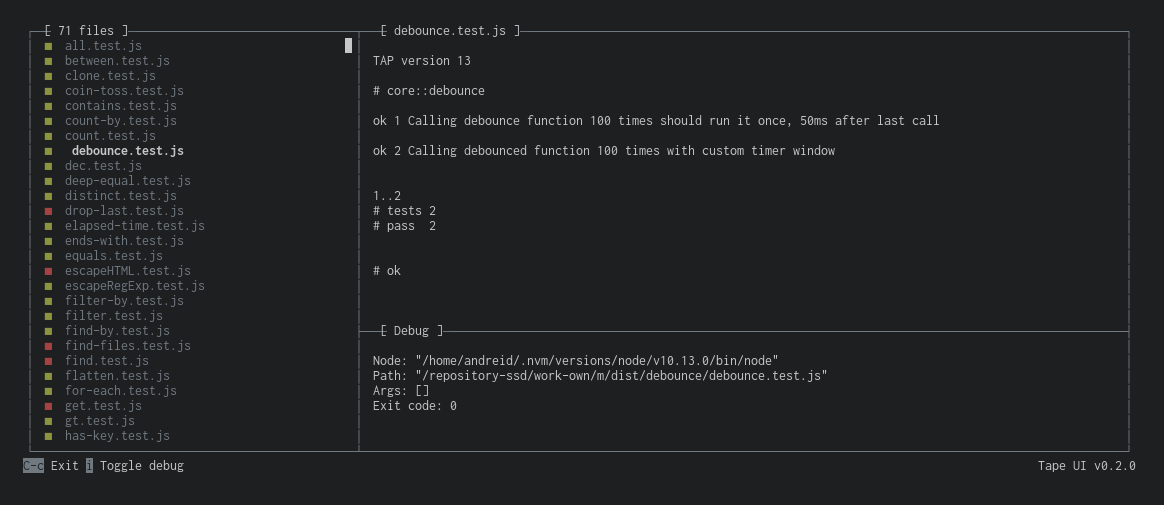
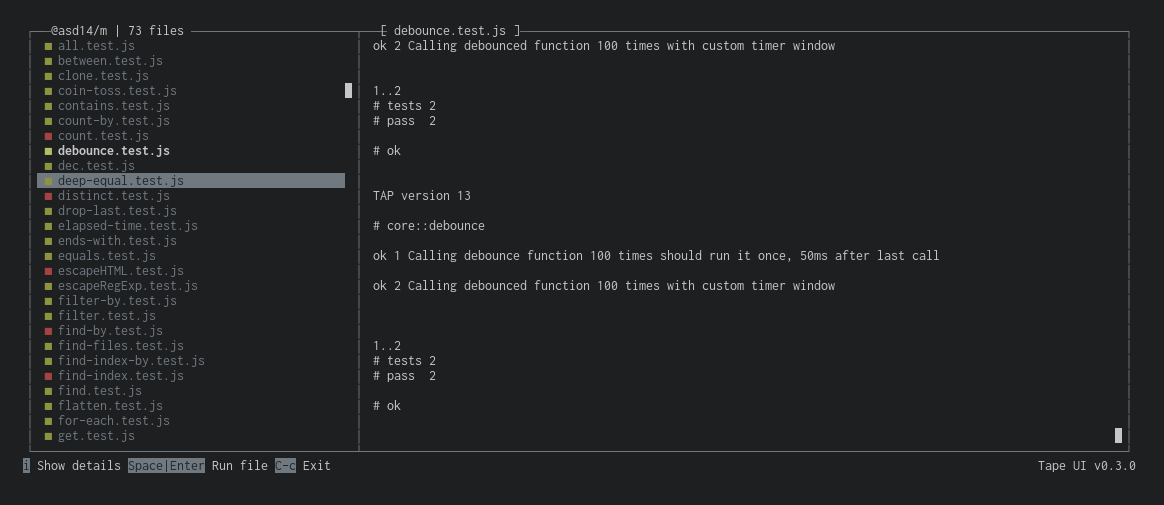
Docs for 0.4.0

diff --git a/README.md b/README.md
@@ -2,9 +2,12 @@
 
 # Tape UI [![npm package version](https://badge.fury.io/js/%40asd14%2Ftape-ui.svg)](https://badge.fury.io/js/%40asd14%2Ftape-ui)
 
-> Terminal UI for [Tape](https://github.com/substack/tape) test runner
-
 ![Tape UI](docs/screenshot.png)
+
+> Terminal UI for [Tape](https://github.com/substack/tape) test runner
+> - Parallel testing
+> - Keyboard navigation with Vim shortcuts
+> - Babel support
 
 ---
 
@@ -14,7 +17,7 @@
 - [Develop](#develop)
 - [Use](#use)
 - [Changelog](#changelog)
-    - [0.3.0 - 5 January 2019](#030---5-january-2019)
+    - [0.4.0 - 6 January 2019](#040---6-january-2019)
 
 <!-- /MarkdownTOC -->
 
@@ -54,15 +57,8 @@ Add script in `package.json`
 
 History of all changes in [CHANGELOG.md](CHANGELOG.md)
 
-### 0.3.0 - 5 January 2019
+### 0.4.0 - 6 January 2019
 
 #### Add
 
-- `i` shortcut to toggle Debug window
-- Help menu
-
-#### Change
-
-- Remove `dblClick` from list item
-- Debug window hidden by default
-- Overlap borders to save space
+- Keyboad navigation in main list: up, down, home, end, page-up, page-down and space for "Run file"

diff --git a/CHANGELOG.md b/CHANGELOG.md
@@ -9,6 +9,12 @@ and this project adheres to [Semantic Versioning](http://semver.org/spec/v2.0.0.
 
 ## [Unreleased]
 
+## [0.4.0] - 6 January 2019
+
+### Add
+
+- Keyboad navigation in main list: up, down, home, end, page-up, page-down and space for "Run file"
+
 ## [0.3.0] - 5 January 2019
 
 ### Add
@@ -33,8 +39,9 @@ and this project adheres to [Semantic Versioning](http://semver.org/spec/v2.0.0.
 
 First
 
-[Unreleased]: https://github.com/asd14/tape-ui/compare/v0.3.0...HEAD
+[Unreleased]: https://github.com/asd14/tape-ui/compare/v0.4.0...HEAD
 
+[0.4.0]: https://github.com/asd14/tape-ui/compare/v0.3.0...v0.4.0
 [0.3.0]: https://github.com/asd14/tape-ui/compare/v0.2.0...v0.3.0
 [0.2.0]: https://github.com/asd14/tape-ui/compare/v0.1.0...v0.2.0
 [0.1.0]: https://github.com/asd14/tape-ui/compare/v0.1.0
